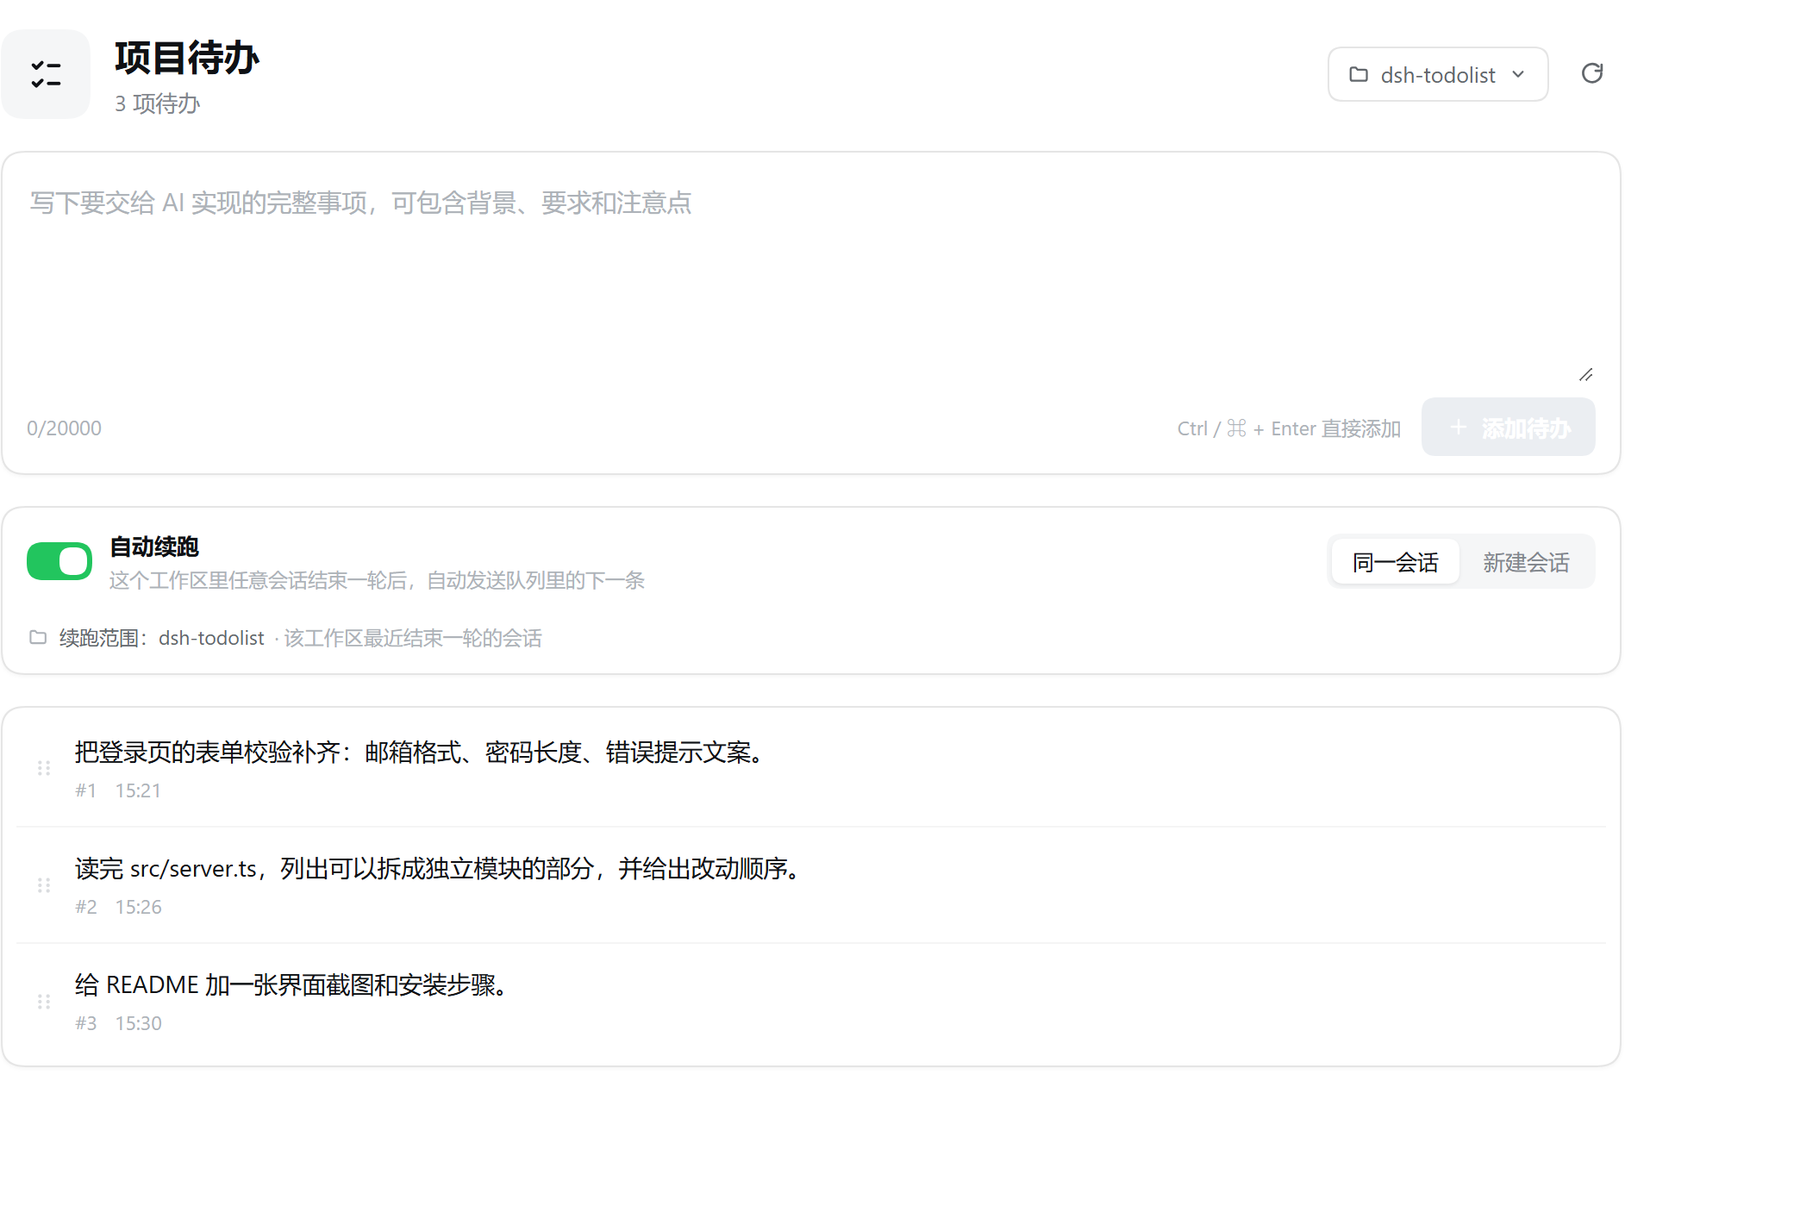
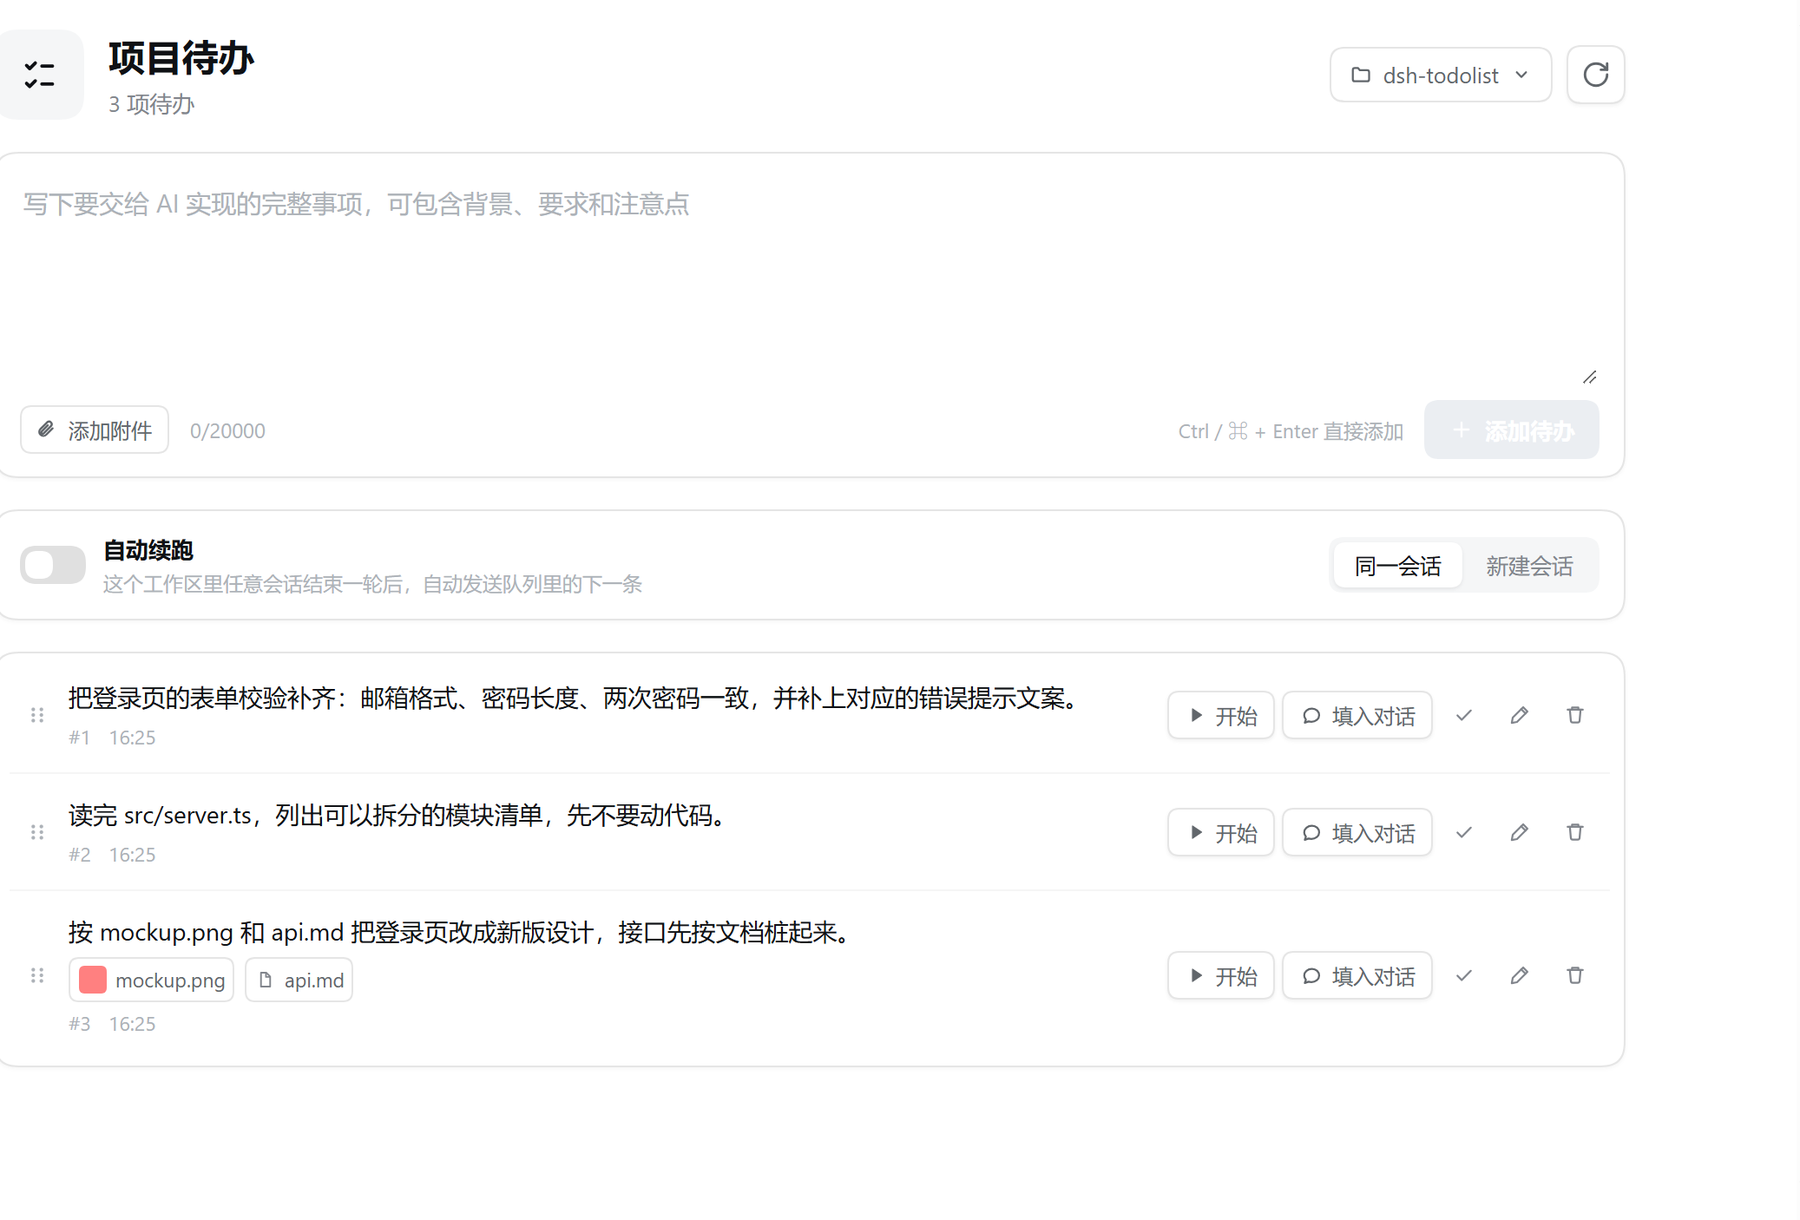
fix: the todo panel scrolls again when the queue grows; refresh the README screenshot

diff --git a/client.js b/client.js
@@ -135,10 +135,15 @@ window.__ModuleLoader__.load({
     // --------------------------------------------------------------- styling
 
     const CSS = `
-.dtl-root { position: relative; display: flex; flex-direction: column; min-height: 100%; box-sizing: border-box;
+.dtl-root { position: relative; display: flex; flex-direction: column; height: 100%; min-height: 0;
+  overflow-y: auto; overflow-x: hidden; box-sizing: border-box;
   padding: calc(var(--dsh-frame-top-clearance, 0px) + 16px) 28px 96px;
   color: var(--dsw-alias-label-primary); background: var(--dsw-alias-bg-base);
-  font-size: 14px; line-height: 1.55; }
+  font-size: 14px; line-height: 1.55; scrollbar-width: thin; }
+.dtl-root::-webkit-scrollbar { width: 10px; }
+.dtl-root::-webkit-scrollbar-thumb { background: var(--dsw-alias-scrollbar-bg-l1, #00000024); border-radius: 6px;
+  border: 3px solid transparent; background-clip: content-box; }
+.dtl-root::-webkit-scrollbar-thumb:hover { background: var(--dsw-alias-scrollbar-bg-l2, #00000038); background-clip: content-box; }
 .dtl-inner { width: 100%; max-width: 940px; margin: 0 auto; display: flex; flex-direction: column; gap: 18px; }
 .dtl-head { display: flex; align-items: center; gap: 14px; }
 .dtl-badge { width: 52px; height: 52px; flex: none; display: flex; align-items: center; justify-content: center;
@@ -250,8 +255,7 @@ window.__ModuleLoader__.load({
 .dtl-row[data-dragging="true"] { opacity: .45; }
 .dtl-row[data-drop="true"] { box-shadow: inset 0 2px 0 var(--dsw-alias-brand-primary, #0f1115); }
 .dtl-grip { width: 20px; height: 26px; flex: none; display: flex; align-items: center; justify-content: center;
-  border: 0; background: transparent; color: var(--dsw-alias-label-caption, #a8adb5); cursor: grab; opacity: .45; padding: 0; }
-.dtl-row:hover .dtl-grip { opacity: 1; }
+  border: 0; background: transparent; color: var(--dsw-alias-label-caption, #a8adb5); cursor: grab; opacity: 1; padding: 0; }
 .dtl-grip:active { cursor: grabbing; }
 .dtl-body { flex: 1; min-width: 0; display: flex; flex-direction: column; gap: 3px; padding-top: 0; }
 .dtl-title { font-size: 14px; overflow-wrap: anywhere; white-space: pre-wrap; cursor: text; }
@@ -262,7 +266,9 @@ window.__ModuleLoader__.load({
   border-radius: 8px; border: 1px solid var(--dsw-alias-border-l3); background: var(--dsw-alias-bg-base);
   color: inherit; font: inherit; font-size: 14px; line-height: 1.6; outline: none; }
 .dtl-edit:focus { border-color: var(--dsw-alias-brand-primary); }
-.dtl-actions { display: flex; align-items: center; gap: 4px; flex: none; }
+/* Row actions are always visible; a stale stylesheet may still carry the old
+   "hide until hover" rule, so the opacity is pinned here as well. */
+.dtl-actions { display: flex; align-items: center; gap: 4px; flex: none; opacity: 1; }
 .dtl-act { display: inline-flex; align-items: center; gap: 5px; height: 28px; padding: 0 9px; border-radius: 8px;
   border: 1px solid var(--dsw-alias-border-l2, #0000001a); background: var(--dsw-alias-bg-layer-1, #fff); color: var(--dsw-alias-label-secondary); font-size: 12px; cursor: pointer;
   box-shadow: 0 1px 2px rgba(15,18,24,.06); }
